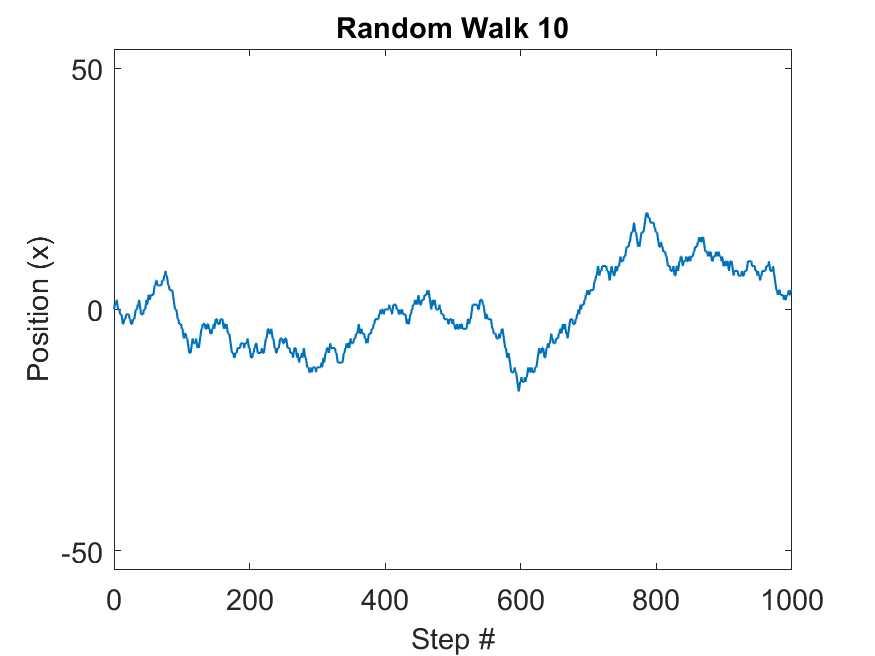
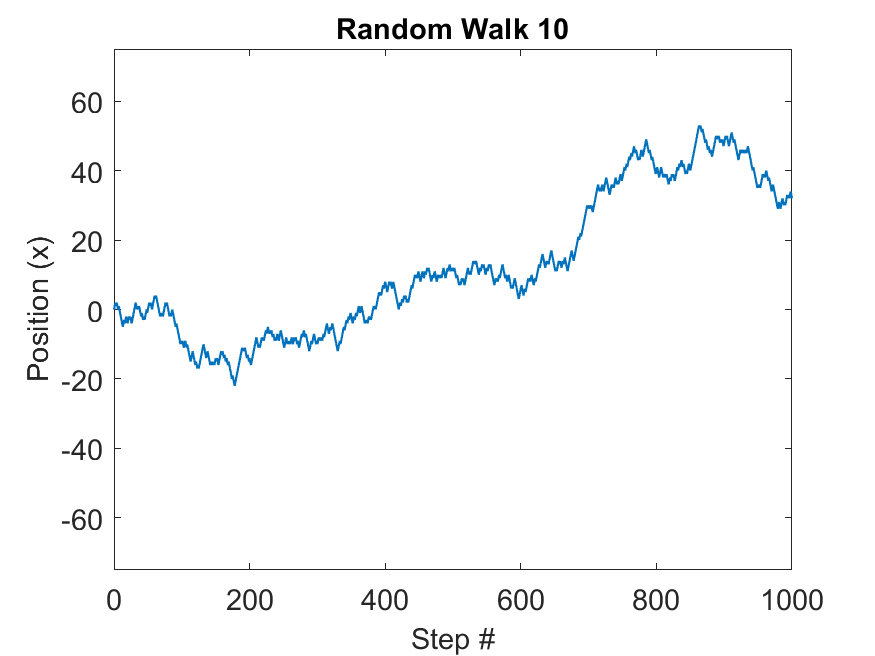
Expanded project to N-dimensional walks (replaced 2D)

diff --git a/Brownian Motion/walkNDanalysis.m b/Brownian Motion/walkNDanalysis.m
@@ -1,4 +1,4 @@
-% Runs 100 simulations of 2D walks of 1000 steps each, then does the
+% Runs 100 simulations of ND walks of 1000 steps each, then does the
 % following:
 %  (1) Calculates the mean final displacement and mean final squared
 %      displacement
@@ -7,16 +7,17 @@
 %      steps
 % It prints (1) to the command window, while saving (2),(3) as images.
 
+N = 2;
 simulations = 100;
-startpos = [0,0];
+startpos = zeros(1,N);
 steps = 1000;
 stepsize = 1;
 
 % Run the simulations
 xs = zeros(simulations,steps+1);
 for i = 1:simulations
-    pos = walk2D(startpos, steps, stepsize);
-    xs(i,:) = sqrt(pos(:,1).^2+pos(:,2).^2);
+    pos = walkND(startpos, steps, stepsize);
+    xs(i,:) = magvecrows(pos);
 end
 % Calculate the mean distance and mean square distance at every step #
 xmean = mean(xs);
@@ -55,4 +56,15 @@ function format(fig, title_arg, xlabel_arg, ylabel_arg, xlim_arg, ylim_arg)
     ylim(ylim_arg);
     set(findall(fig,'-property','FontSize'),'FontSize',14);
     set(fig,'color','w');
+end
+
+% A function that calculates the magnitude of vectors stored as rows
+% xs(i,:) = sqrt(pos(:,1).^2+pos(:,2).^2);
+function xs = magvecrows(pos)
+    siz = size(pos);
+    squaredsum = zeros(siz(1),1);
+    for i = 1:siz(2) % for each dimension
+        squaredsum = squaredsum + pos(:,i).^2;
+    end
+    xs = sqrt(squaredsum);
 end

diff --git a/Brownian Motion/walkND.m b/Brownian Motion/walkND.m
@@ -1,12 +1,12 @@
-% Simulates a 2-dimensional random walk that starts at `startpos` and walks
+% Simulates a N-dimensional random walk that starts at `startpos` and walks
 % `steps` steps of length `stepsize`. Returns an array `path` listing all
 % the positions it visited through during the walk.
 
-function path = walk2D(startpos, steps, stepsize)
+function path = walkND(startpos, steps, stepsize)
     path = startpos;
     for i = 1:steps
-        dir = round(rand+1); % rand picks horizontal (1) or vertical (2)
-        pm1 = round(rand*2-1); % rand picks -1 or 1
+        dir = randi(length(startpos)); % rand picks a dimension (1~N)
+        pm1 = round(rand)*2-1; % rand picks -1 or 1
         startpos(dir) = startpos(dir) + stepsize*pm1;
         path = [path; startpos];
     end

diff --git a/Brownian Motion/walk1D.m b/Brownian Motion/walk1D.m
@@ -5,7 +5,7 @@
 function path = walk1D(startpos, steps, stepsize)
     path = startpos;
     for i = 1:steps
-        pm1 = round(rand*2-1); % randomly picks -1 or 1
+        pm1 = round(rand)*2-1; % randomly picks -1 or 1
         startpos = startpos + stepsize*pm1;
         path = [path, startpos];
     end

diff --git a/Brownian Motion/walk2Dvisual.m b/Brownian Motion/walk2Dvisual.m
@@ -6,7 +6,7 @@ animate = true;
 startpos = [0,0];
 steps = 1000;
 stepsize = 1;
-path = walk2D(startpos, steps, stepsize);
+path = walkND(startpos, steps, stepsize);
 
 for i = 1:steps
     if (animate || i == steps)
